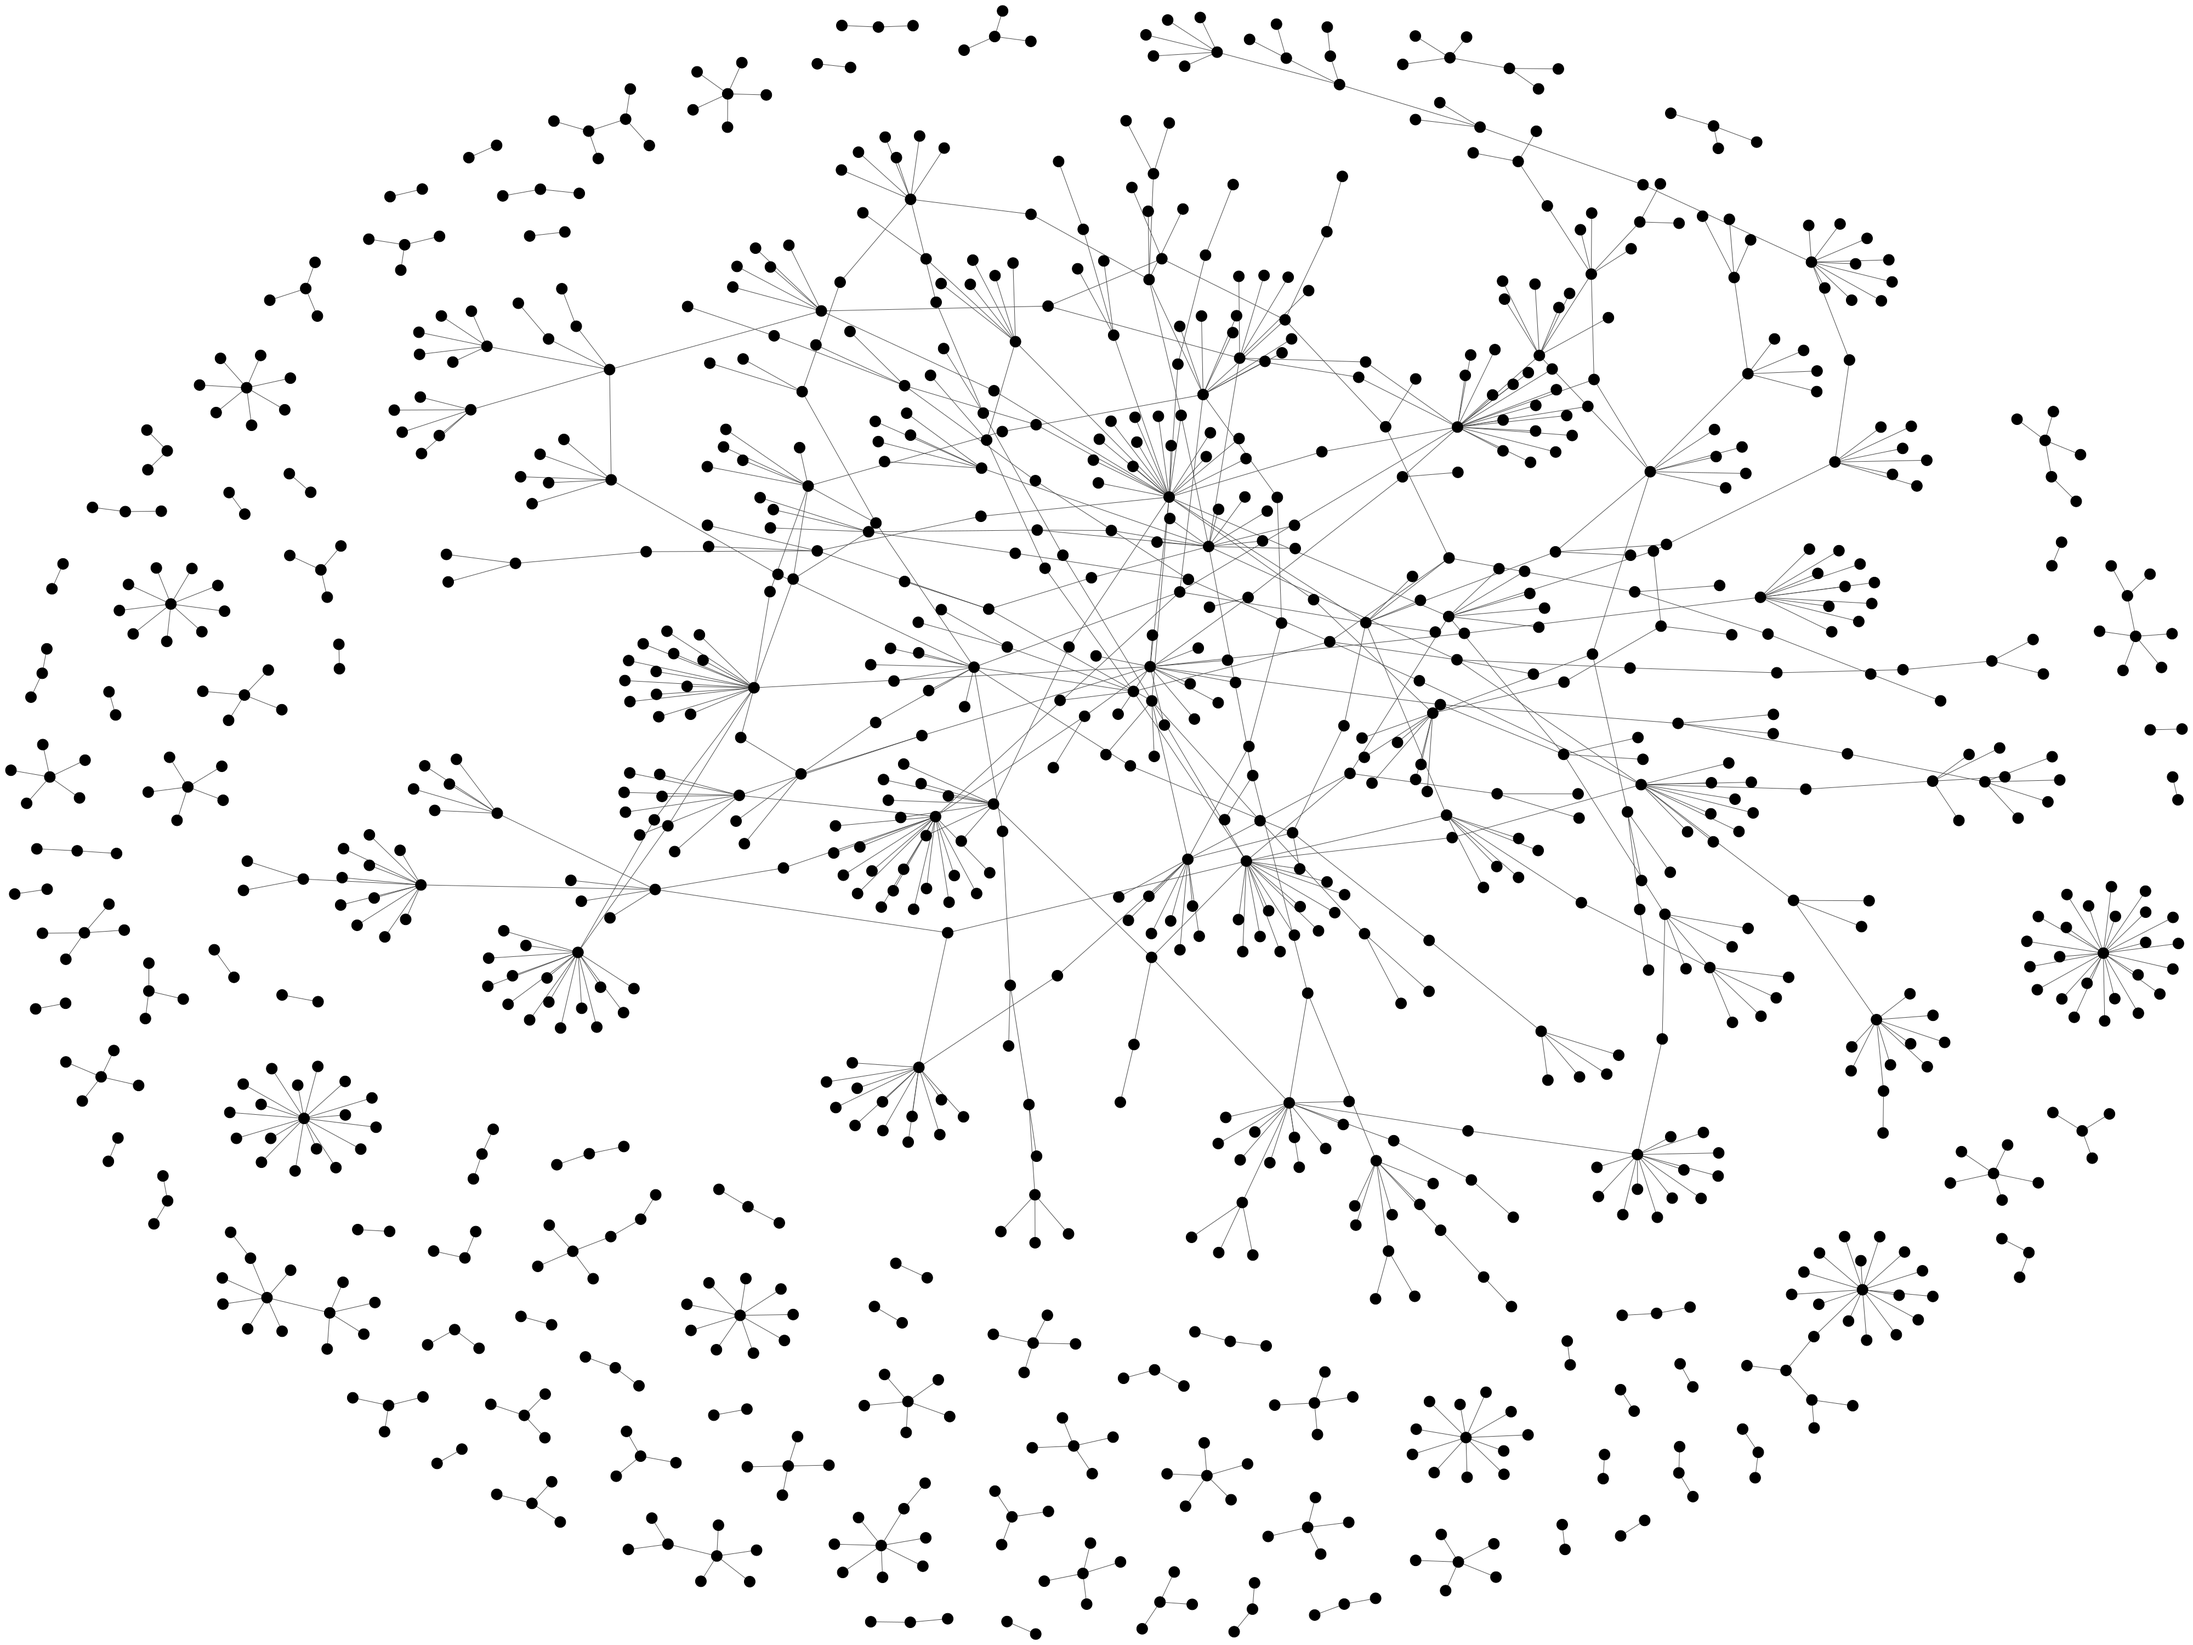
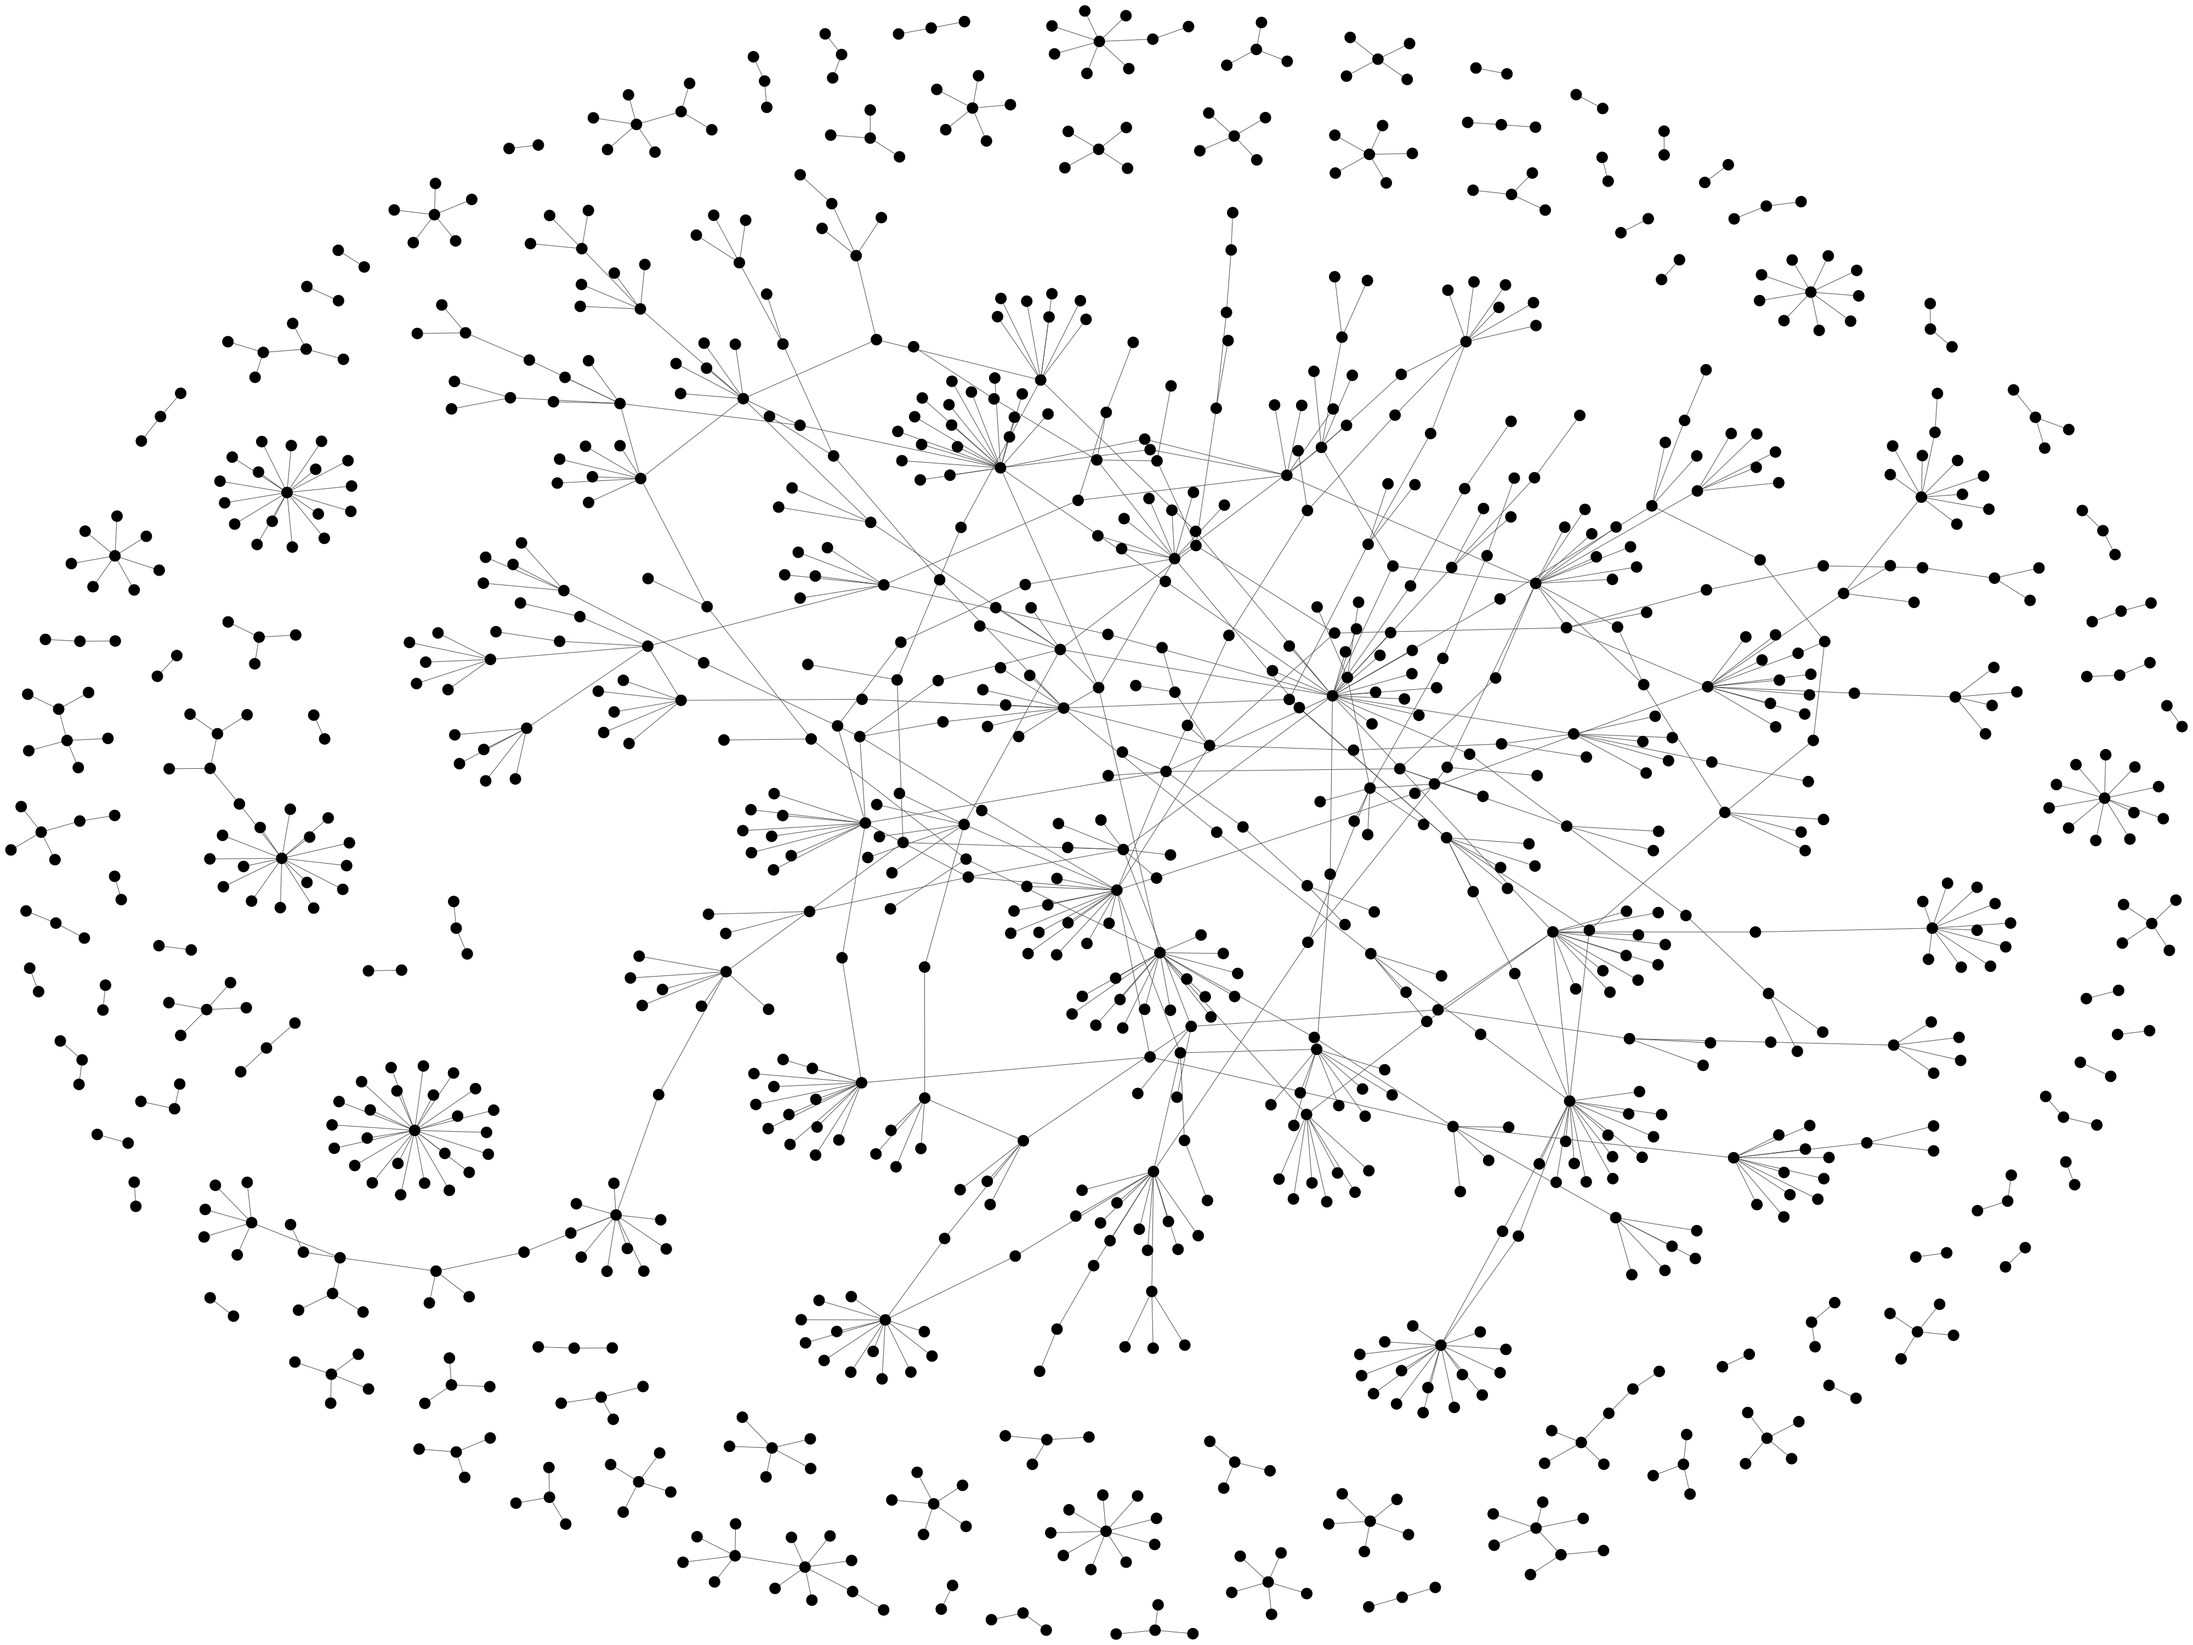
Add README.md

diff --git a/generate_graph/disp_graph.py b/generate_graph/disp_graph.py
@@ -1,46 +1,64 @@
 from igraph import *
 
-# Open textfile and reduce array of values to 0 based index values
+# Global variables for mapping of graph nodes
 count = 0
 node_map = dict()
 connections = set()
 
 graph = Graph()
 
-file = 'graph_rep.txt'
-file2 = 'graph_data.txt'
+# File -> The graph initial state with connections
+file1 = 'graph_rep.txt'
+# File2 -> The newly affected nodes after each iteration
+file2 = 'graph_transitions.txt'
+# Graph data generated
+fileD = 'graph_data.txt'
 
-with open(file2, 'r') as f:
+# Open textfile and reduce array of values to 0 based index values
+with open(fileD, 'r') as f:
 	for line in f:
 		for pair in line.split(";"):
 			if not pair: continue
 			node_l = int(pair.split(",")[0])
 			node_r = int(pair.split(",")[1])
-			#print("{}->{}".format(node_l, node_r))
+			
 			if node_l not in node_map:
 				node_map[node_l] = count
 				count += 1
+
 			if node_r not in node_map:
 				node_map[node_r] = count
 				count += 1
+
+			# Undirected graph representation ensured with this portion 
 			new_connect = "{}-{}".format(
 				min(node_map[node_l],node_map[node_r]),
 				max(node_map[node_l],node_map[node_r])
 			)
+
 			if new_connect in connections:
 				continue
+
+			# Add new connection to the set of connections
 			connections.add(new_connect)
-			# Add more verticies if needed
+
+			# Add more verticies if needed and then create the edge
 			graph.add_vertices(count - graph.vcount())
 			graph.add_edges([(node_map[node_l],node_map[node_r])])
 
 print("Number of nodes:",count)
 
-#layout = graph.layout_kamada_kawai()
-#layout = graph.layout_lgl()
-#layout = graph.layout_random()
-#layout = graph.layout_fruchterman_reingold() # Clean kk
-layout = graph.layout_fruchterman_reingold(grid=True) # supa clean
+
+'''
+GRAPHING OPTIONS:
+layout_lgl()
+layout_random()
+layout_kamada_kawai()
+layout_fruchterman_reingold() -- Cleaner version of kk
+layout_fruchterman_reingold(grid=True) -- TODO: Determine how to get grid to work
+'''
+layout = graph.layout_fruchterman_reingold()
+
 color_dict = {"u": "black", "a": "red"}
 
 graph.vs["state"] = ["u" for i in range(count)]
@@ -51,16 +69,19 @@ num_states = 0
 out = plot(graph, layout = layout, bbox = (4000, 3000))
 out.save('graph_states/graph_state_{}.png'.format(num_states))
 
-# with open('graph_transitions.txt', 'r') as f:
+# Perform graph node color transition based on updated graph states in textfile
+# with open(file2, 'r') as f:
 # 	for line in f:
 # 		line = [int(p) for p in line.strip().split(',') if p]
-# 		#g.vs[0]["gender"] = "m"
+		
 # 		for node in line:
 # 			graph.vs[node_map[node]]["state"] = "a"
 
-# 		# Update graph with new states
+# 		# Update graph with new states and increment state transition count
 # 		num_states += 1
 # 		graph.vs["color"] = [color_dict[state] for state in graph.vs["state"]]
-# 		out = plot(graph, layout = layout, margin = 20)
+
+# 		# Display and save images to folder
+# 		out = plot(graph, layout = layout, bbox = (4000, 3000))
 # 		out.save('graph_states/graph_state_{}.png'.format(num_states))
 

diff --git a/generate_graph/README.md b/generate_graph/README.md
@@ -1,0 +1,26 @@
+# Graph Representation
+
+&nbsp;&nbsp;&nbsp;&nbsp;&nbsp;&nbsp;This pages demonstrates the various graphing options available using iGraph for the representation of the data. 
+
+## Description
+Depicted below is are the 4 graphing options available for the representation of the same data using 1049 nodes and 1000 connections.
+
+### Graphing Options
+
+<div>
+	<img src="graph_states/dgraph_state_fg.png" style="float:left;padding-right:30px;padding:10px;margin:0 10px 10px 0" alt="drawing" width="300"/>
+	<img src="graph_states/dgraph_state_kg.png" style="float:right;padding:10px;margin:0 10px 10px 0" alt="drawing" width="300"/>
+</div>
+
+</br>
+
+<div>
+	<img src="graph_states/dgraph_state_lg.png" style="float:left;padding-right:30px;padding:10px;margin:0 10px 10px 0" alt="drawing" width="300"/>
+	<img src="graph_states/dgraph_state_random.png" style="float:right;padding:10px;margin:0 10px 10px 0" alt="drawing" width="300"/>
+</div>
+
+### Sources:
+I used the official igraph website for assitiance in creating these models: 
+* (https://igraph.org/python/doc/tutorial/tutorial.html)
+* (https://en.wikipedia.org/wiki/Force-directed_graph_drawing)
+* (https://github.com/igraph/python-igraph/)
